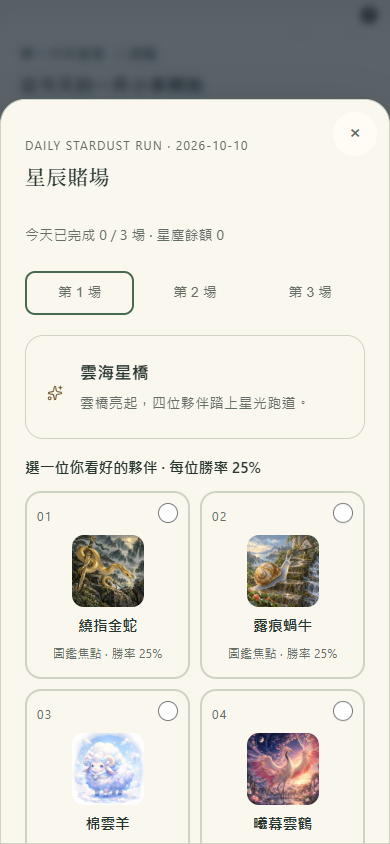
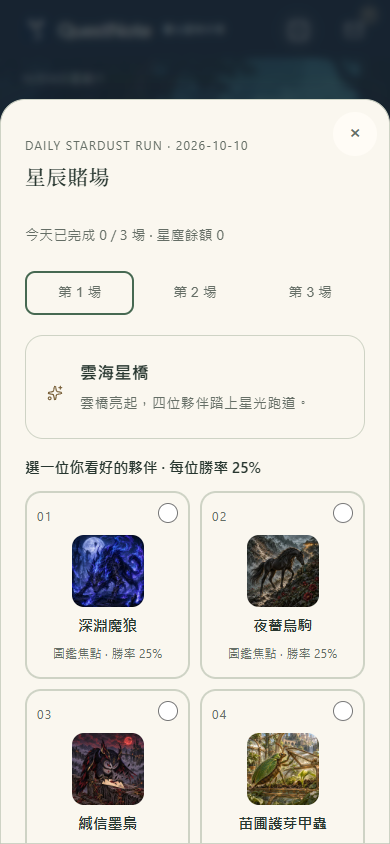
docs: capture unobstructed formal casino header and verify alignment

diff --git a/reports/casino-entry-layout-release/README.md b/reports/casino-entry-layout-release/README.md
@@ -21,3 +21,5 @@
 首次正式回讀有一張既有覺醒圖片回傳 HTTP 503，故全套回讀判為失敗。第二輪降低並行請求至四個，對暫時 HTTP 錯誤最多重試三次，再對所有成功回應照原 size／SHA-256 規則核對；完整結果與 retry 明細已保存。失敗診斷保留並登記 review。
 
 原生 Chrome 使用 390×844 viewport；實體 iPhone／Android 未執行。未操作正式使用者的既有存檔或下注。不可變產物、完整日誌與生成材料在 .dev-backups/release-runs/v394-* 登記 release-evidence／hold。本目錄是長期發布證據；上一階段「尚未部署」報告記錄当時本機驗收狀態，本收據更新部署結論。
+
+最後正式截圖先收起首次使用的提示卡，再確認兩個入口都位於品牌／主題 masthead 的垂直範圍內、文字不與按鈕重疊。更新後的正式截圖及離線驗收見 formal-browser.json；首次帶提示卡的輸出仍在 v394-formal 保留。
